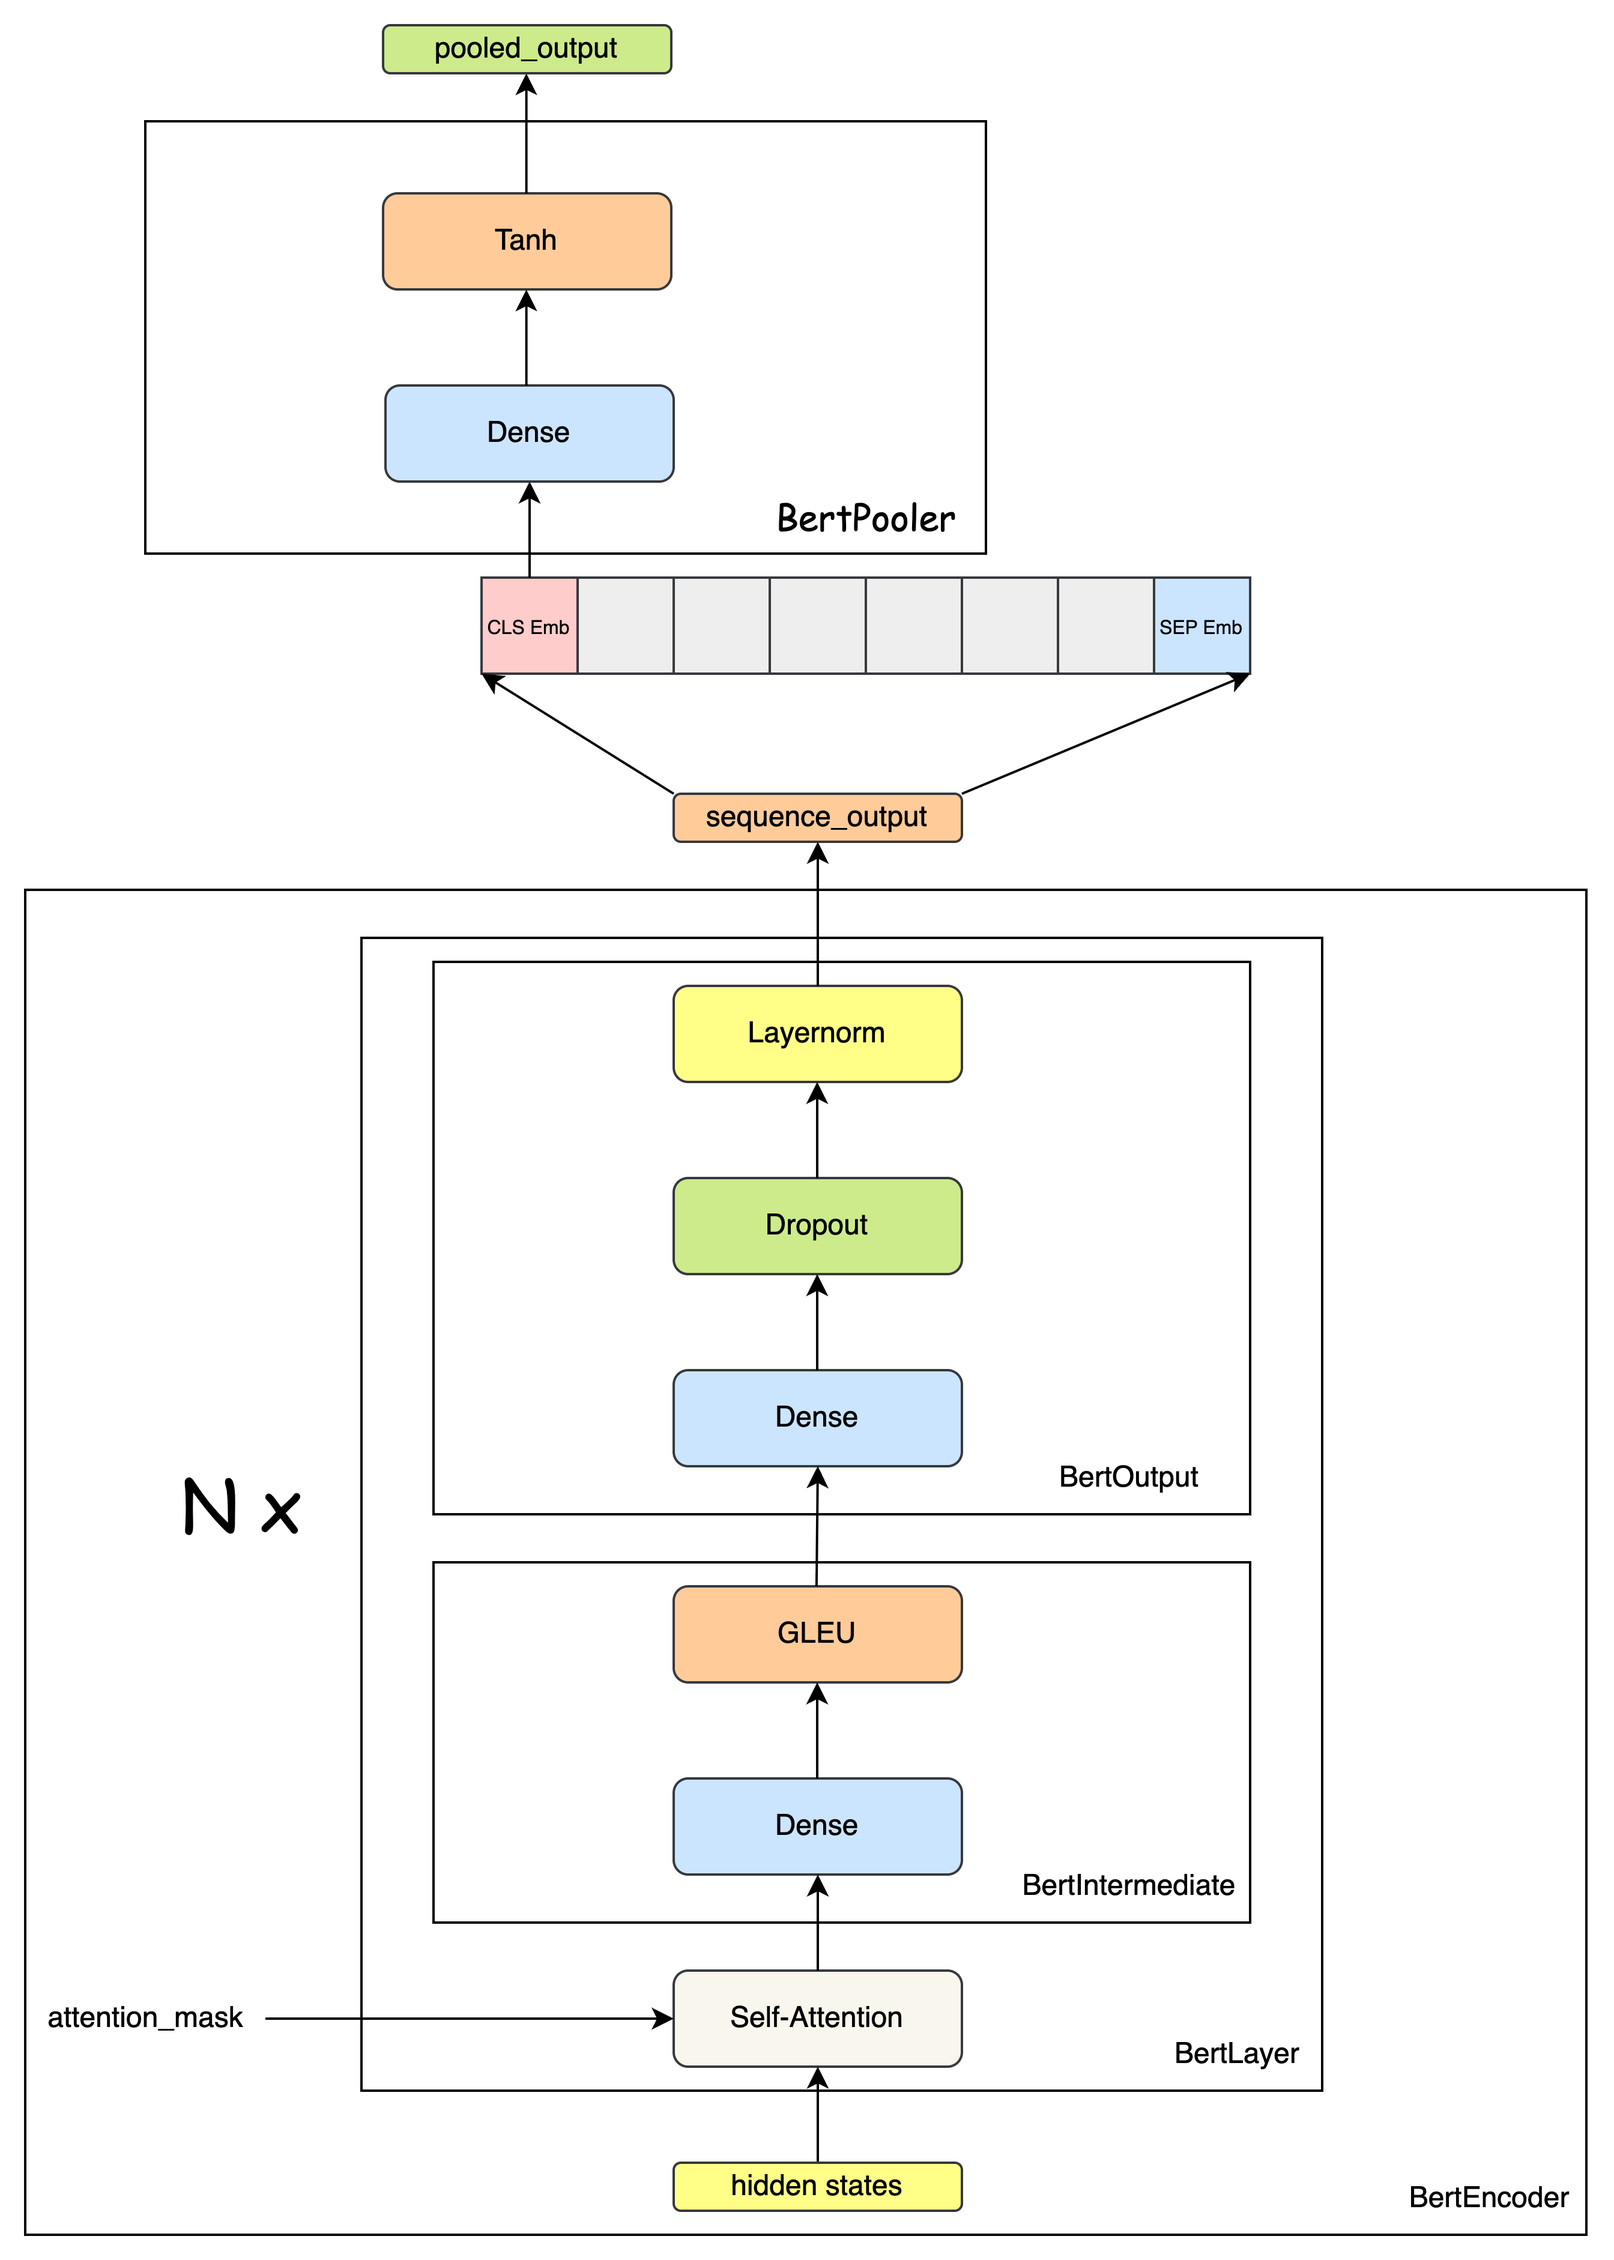
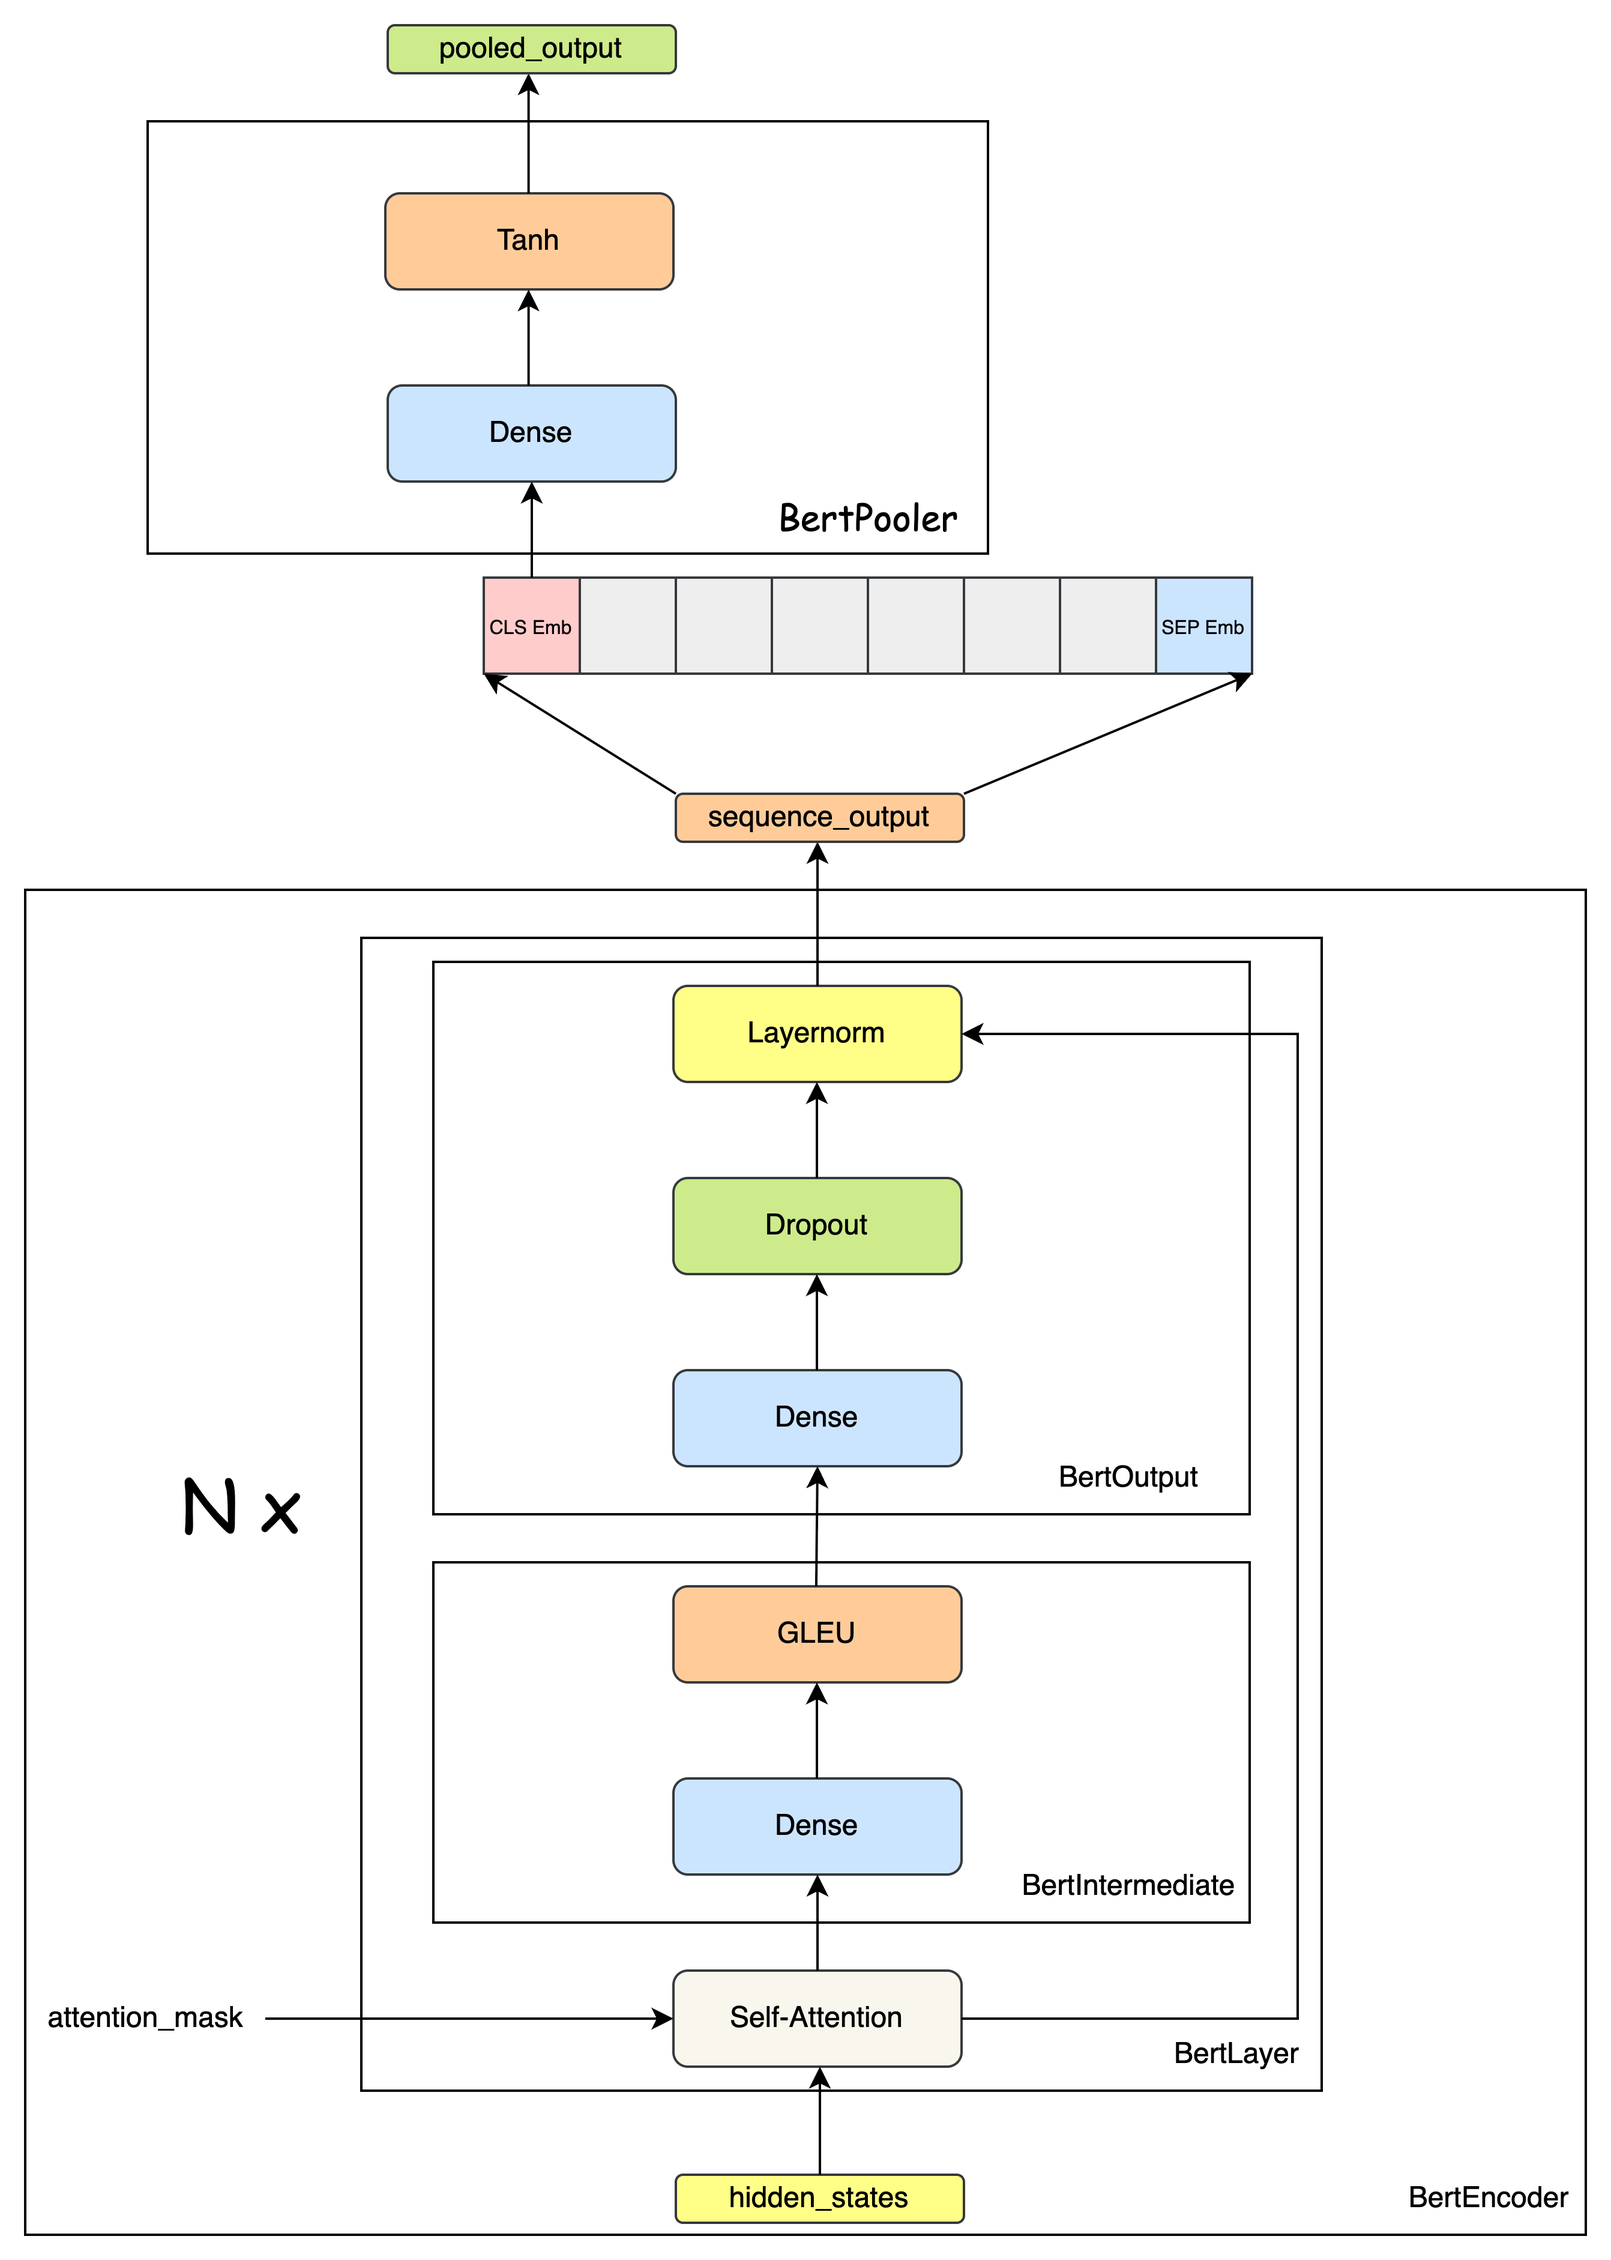
updates

diff --git a/src/LLM/图解BERT.md b/src/LLM/图解BERT.md
@@ -302,8 +302,7 @@ class BertLayer(nn.Module):
         self.output = BertOutput(config)
 
     def forward(self, hidden_states, attention_mask=None):
-        attention_outputs = self.attention(hidden_states, attention_mask)
-        attention_output = attention_outputs[0]
+        attention_output = self.attention(hidden_states, attention_mask)
         intermediate_output = self.intermediate(attention_output)
         layer_output = self.output(intermediate_output, attention_output)
         return layer_output
@@ -415,4 +414,99 @@ class BertForSequenceClassification(BertPreTrainedModel):
             outputs = (loss,) + outputs
 
         return outputs  # (loss), logits, (hidden_states), (attentions)
+```
+
+### BertAttention
+
+#### BertSelfAttention
+
+![多头自注意力计算流程图](图解BERT/14.png)
+
+```python
+class BertSelfAttention(nn.Module):
+    def __init__(self, config):
+        super(BertSelfAttention, self).__init__()
+        self.output_attentions = config.output_attentions
+
+        self.num_attention_heads = config.num_attention_heads
+        self.attention_head_size = int(config.hidden_size / config.num_attention_heads)
+        self.all_head_size = self.num_attention_heads * self.attention_head_size
+
+        self.query = nn.Linear(config.hidden_size, self.all_head_size)
+        self.key = nn.Linear(config.hidden_size, self.all_head_size)
+        self.value = nn.Linear(config.hidden_size, self.all_head_size)
+
+        self.dropout = nn.Dropout(config.attention_probs_dropout_prob)
+
+    def transpose_for_scores(self, x):
+        new_x_shape = x.size()[:-1] + (self.num_attention_heads, self.attention_head_size)
+        x = x.view(*new_x_shape)
+        return x.permute(0, 2, 1, 3)
+
+    def forward(self, hidden_states, attention_mask=None, head_mask=None):
+        mixed_query_layer = self.query(hidden_states)
+        mixed_key_layer = self.key(hidden_states)
+        mixed_value_layer = self.value(hidden_states)
+        # view 成多头格式: (batch,heads,seq_len,d_k)
+        query_layer = self.transpose_for_scores(mixed_query_layer)
+        key_layer = self.transpose_for_scores(mixed_key_layer)
+        value_layer = self.transpose_for_scores(mixed_value_layer)
+
+        # Take the dot product between "query" and "key" to get the raw attention scores.
+        attention_scores = torch.matmul(query_layer, key_layer.transpose(-1, -2)) # (batch,heads,d_k,seq_len)
+        attention_scores = attention_scores / math.sqrt(self.attention_head_size)
+        if attention_mask is not None:
+            # Apply the attention mask is (precomputed for all layers in BertModel forward() function)
+            attention_scores = attention_scores + attention_mask
+
+        # Normalize the attention scores to probabilities.
+        attention_probs = nn.Softmax(dim=-1)(attention_scores)
+
+        # This is actually dropping out entire tokens to attend to, which might
+        # seem a bit unusual, but is taken from the original Transformer paper.
+        attention_probs = self.dropout(attention_probs)
+
+        context_layer = torch.matmul(attention_probs, value_layer)
+
+        context_layer = context_layer.permute(0, 2, 1, 3).contiguous()
+        new_context_layer_shape = context_layer.size()[:-2] + (self.all_head_size,)
+        context_layer = context_layer.view(*new_context_layer_shape) # 合并头结果
+        return context_layer
+```
+
+#### BertSelfOutput
+
+![BertSelfOutput计算流程图](图解BERT/15.png)
+
+```python
+class BertSelfOutput(nn.Module):
+    def __init__(self, config):
+        super(BertSelfOutput, self).__init__()
+        self.dense = nn.Linear(config.hidden_size, config.hidden_size)
+        self.LayerNorm = BertLayerNorm(config.hidden_size, eps=config.layer_norm_eps)
+        self.dropout = nn.Dropout(config.hidden_dropout_prob)
+    
+    # 残差链接 + 层归一化
+    def forward(self, hidden_states, input_tensor):
+        hidden_states = self.dense(hidden_states)
+        hidden_states = self.dropout(hidden_states)
+        hidden_states = self.LayerNorm(hidden_states + input_tensor)
+        return hidden_states
+```
+
+#### BertAttention
+
+![BertAttention计算流程图](图解BERT/16.png)
+
+```python
+class BertAttention(nn.Module):
+    def __init__(self, config):
+        super(BertAttention, self).__init__()
+        self.self = BertSelfAttention(config)
+        self.output = BertSelfOutput(config)
+
+    def forward(self, input_tensor, attention_mask=None):
+        self_outputs = self.self(input_tensor, attention_mask) # 多头自注意力机制
+        attention_output = self.output(self_outputs, input_tensor)
+        return attention_output
 ```
